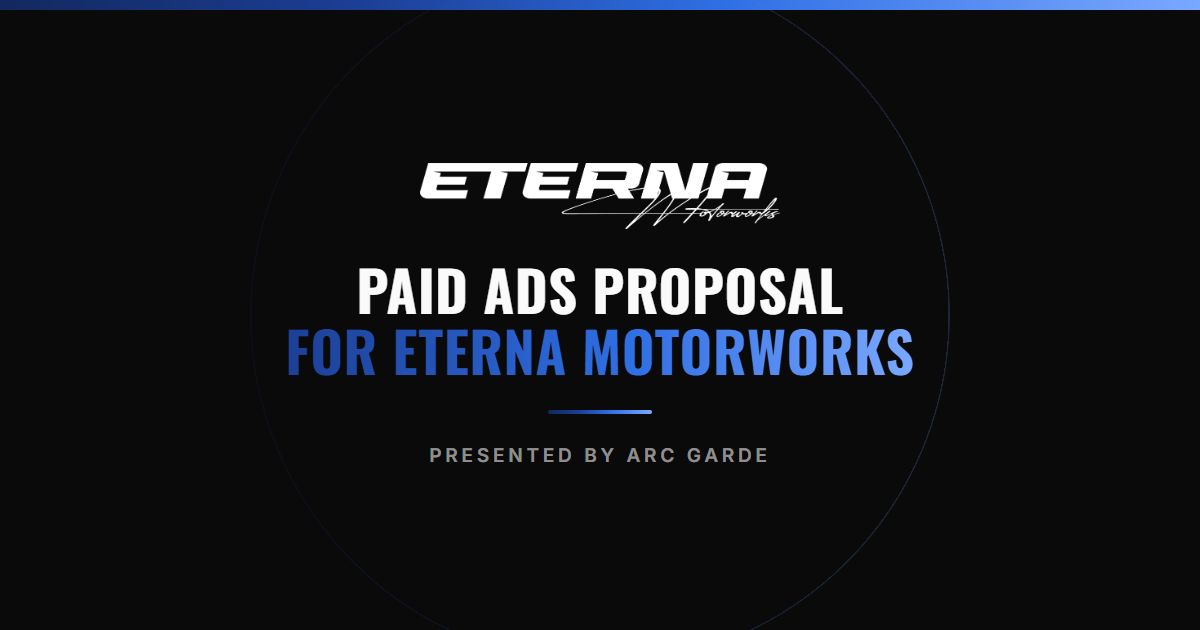
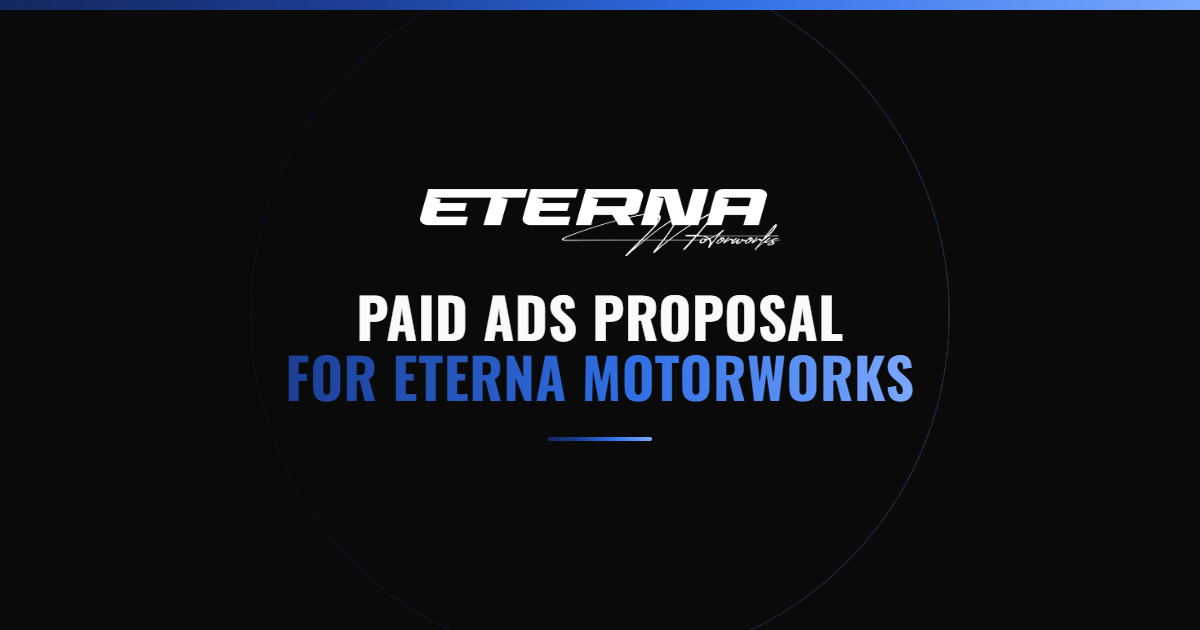
Eterna Motorworks: white-label the presentation
Removed every Arc Garde mention (title, meta, og tags, hero subhead,
pricing ledger line item, pass-through/GHL term boxes, footer credit
line) per direction. Pass-through and GHL wording now uses "us"/"we"
generically. OG banner re-rendered without the "Presented by Arc
Garde" footer line.

Changed region(s): [[0.2158, 0.4222, 0.7708, 0.6635], [0.3392, 0.2413, 0.6475, 0.3921], [0.3392, 0.6937, 0.6475, 0.754]]

diff --git a/presentations/eterna-motorworks/index.html b/presentations/eterna-motorworks/index.html
@@ -6,13 +6,13 @@
 <meta name="viewport" content="width=device-width, initial-scale=1, viewport-fit=cover">
 <meta name="format-detection" content="telephone=no">
 <meta name="robots" content="noindex, nofollow">
-<title>Eterna Motorworks | Paid Ads Proposal | Arc Garde</title>
-<meta name="description" content="A paid ads proposal prepared for Eterna Motorworks by Arc Garde: campaign management, GHL funnel build, and weekly reporting on where every dollar goes.">
+<title>Eterna Motorworks | Paid Ads Proposal</title>
+<meta name="description" content="A paid ads proposal prepared for Eterna Motorworks: campaign management, GHL funnel build, and weekly reporting on where every dollar goes.">
 <link rel="canonical" href="https://ag-reports.vercel.app/presentations/eterna-motorworks">
 <meta property="og:type" content="website">
 <meta property="og:url" content="https://ag-reports.vercel.app/presentations/eterna-motorworks">
-<meta property="og:title" content="Eterna Motorworks | Paid Ads Proposal | Arc Garde">
-<meta property="og:description" content="A paid ads proposal prepared for Eterna Motorworks by Arc Garde: campaign management, GHL funnel build, and weekly reporting on where every dollar goes.">
+<meta property="og:title" content="Eterna Motorworks | Paid Ads Proposal">
+<meta property="og:description" content="A paid ads proposal prepared for Eterna Motorworks: campaign management, GHL funnel build, and weekly reporting on where every dollar goes.">
 <meta property="og:image" content="https://ag-reports.vercel.app/presentations/eterna-motorworks/og-banner.png">
 <meta property="og:image:width" content="1200">
 <meta property="og:image:height" content="630">
@@ -364,7 +364,7 @@
     <img class="em-hero__mark reveal" src="eterna-logo-white.png" alt="Eterna Motorworks" width="1763" height="327">
     <p class="em-hero__eyebrow reveal">Proposal Prepared For Eterna&nbsp;Motorworks</p>
     <h1 class="reveal-hero">Scale<br><span class="em-grad">Without<br>Compromise</span></h1>
-    <p class="em-hero__sub reveal">A paid ads plan from Arc&nbsp;Garde, built to turn the audience you have already earned into revenue you can trace.</p>
+    <p class="em-hero__sub reveal">A paid ads plan built to turn the audience you have already earned into revenue you can trace.</p>
   </div>
   <div class="em-hero__scroll" aria-hidden="true">
     <span>Scroll</span><span class="material-symbols-outlined">arrow_downward</span>
@@ -497,7 +497,7 @@
       <div class="ag-row em-points reveal-stagger">
         <div class="em-point">
           <strong>$1,500 / mo</strong>
-          <span>Ad spend paid direct to the platforms, not to Arc&nbsp;Garde.</span>
+          <span>Ad spend paid direct to the platforms, never marked up.</span>
         </div>
         <div class="em-point">
           <strong>Every Week</strong>
@@ -529,7 +529,7 @@
           <tr><th scope="col">Line item</th><th scope="col">Monthly</th></tr>
         </thead>
         <tbody>
-          <tr><td>Ad Management, Arc&nbsp;Garde</td><td class="ag-figure">$2,100</td></tr>
+          <tr><td>Ad Management</td><td class="ag-figure">$2,100</td></tr>
           <tr><td>Ad Spend, paid direct to platforms</td><td class="ag-figure">$1,500</td></tr>
         </tbody>
         <tfoot>
@@ -547,11 +547,11 @@
       <div class="em-terms reveal">
         <div class="em-term em-term--flag">
           <span class="em-term__label">Ad Spend, Pass-Through</span>
-          <p>The $1,500&nbsp;/&nbsp;mo ad spend is paid directly to Meta.<br>It never routes through Arc&nbsp;Garde, and we never mark it up.</p>
+          <p>The $1,500&nbsp;/&nbsp;mo ad spend is paid directly to Meta.<br>It never routes through us, and we never mark it up.</p>
         </div>
         <div class="em-term em-term--flag">
           <span class="em-term__label">GHL, Not Covered</span>
-          <p>We build and run the funnel inside GHL.<br>The GHL subscription itself is billed to you directly, not to Arc&nbsp;Garde.</p>
+          <p>We build and run the funnel inside GHL.<br>The GHL subscription itself is billed to you directly, not to us.</p>
         </div>
         <div class="em-term">
           <span class="em-term__label">Term</span>
@@ -590,7 +590,7 @@
 
 <footer class="em-foot">
   <img class="em-foot__mark" src="eterna-logo-white.png" alt="" width="1763" height="327" aria-hidden="true">
-  <p class="em-foot__line">Presentation made by Arc&nbsp;Garde&nbsp;&nbsp;//&nbsp;&nbsp;Prepared for Eterna&nbsp;Motorworks&nbsp;&nbsp;//&nbsp;&nbsp;August&nbsp;2026</p>
+  <p class="em-foot__line">Prepared for Eterna&nbsp;Motorworks&nbsp;&nbsp;//&nbsp;&nbsp;August&nbsp;2026</p>
 </footer>
 
 <script src="https://cdn.jsdelivr.net/npm/lenis@1.3.25/dist/lenis.min.js"

diff --git a/presentations/eterna-motorworks/og-banner.html b/presentations/eterna-motorworks/og-banner.html
@@ -92,7 +92,6 @@
       <span class="grad">For Eterna Motorworks</span>
     </h1>
     <div class="rule"></div>
-    <p class="foot">Presented by Arc Garde</p>
   </div>
 </body>
 </html>
